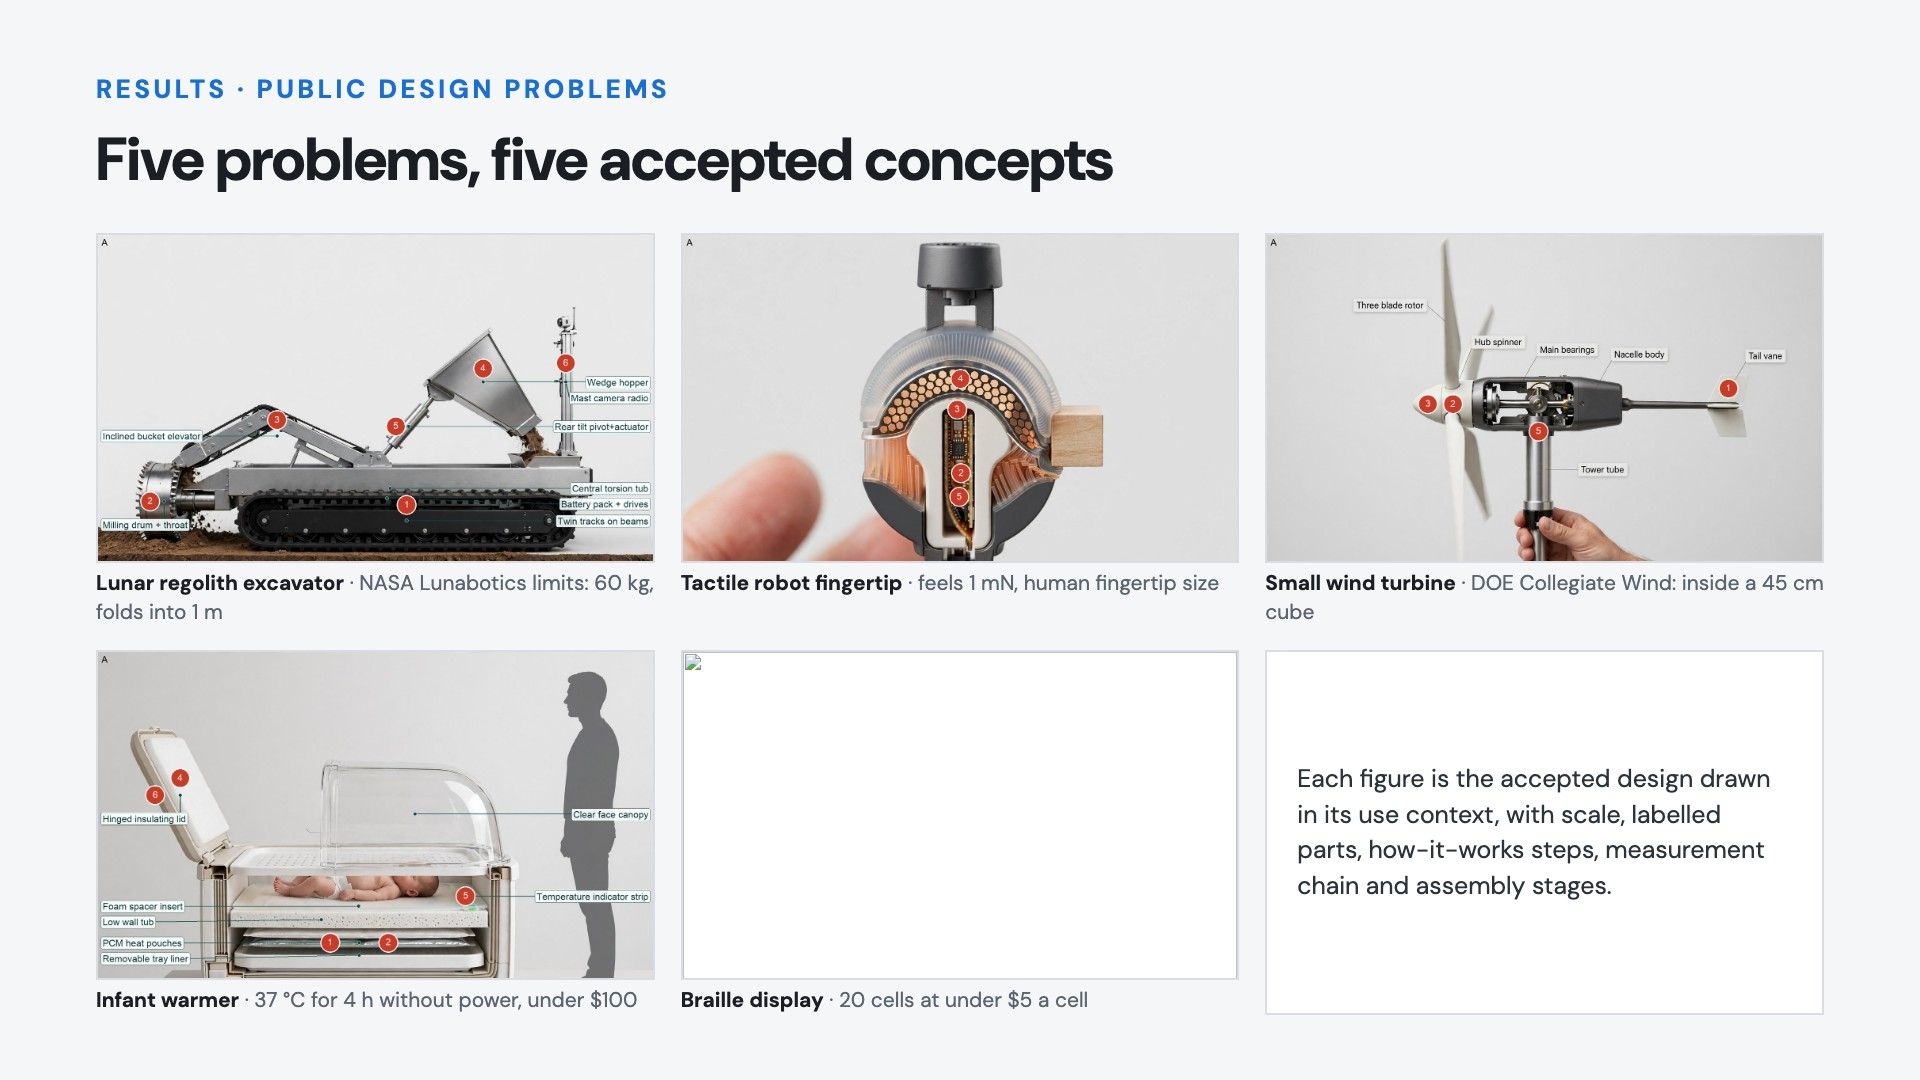
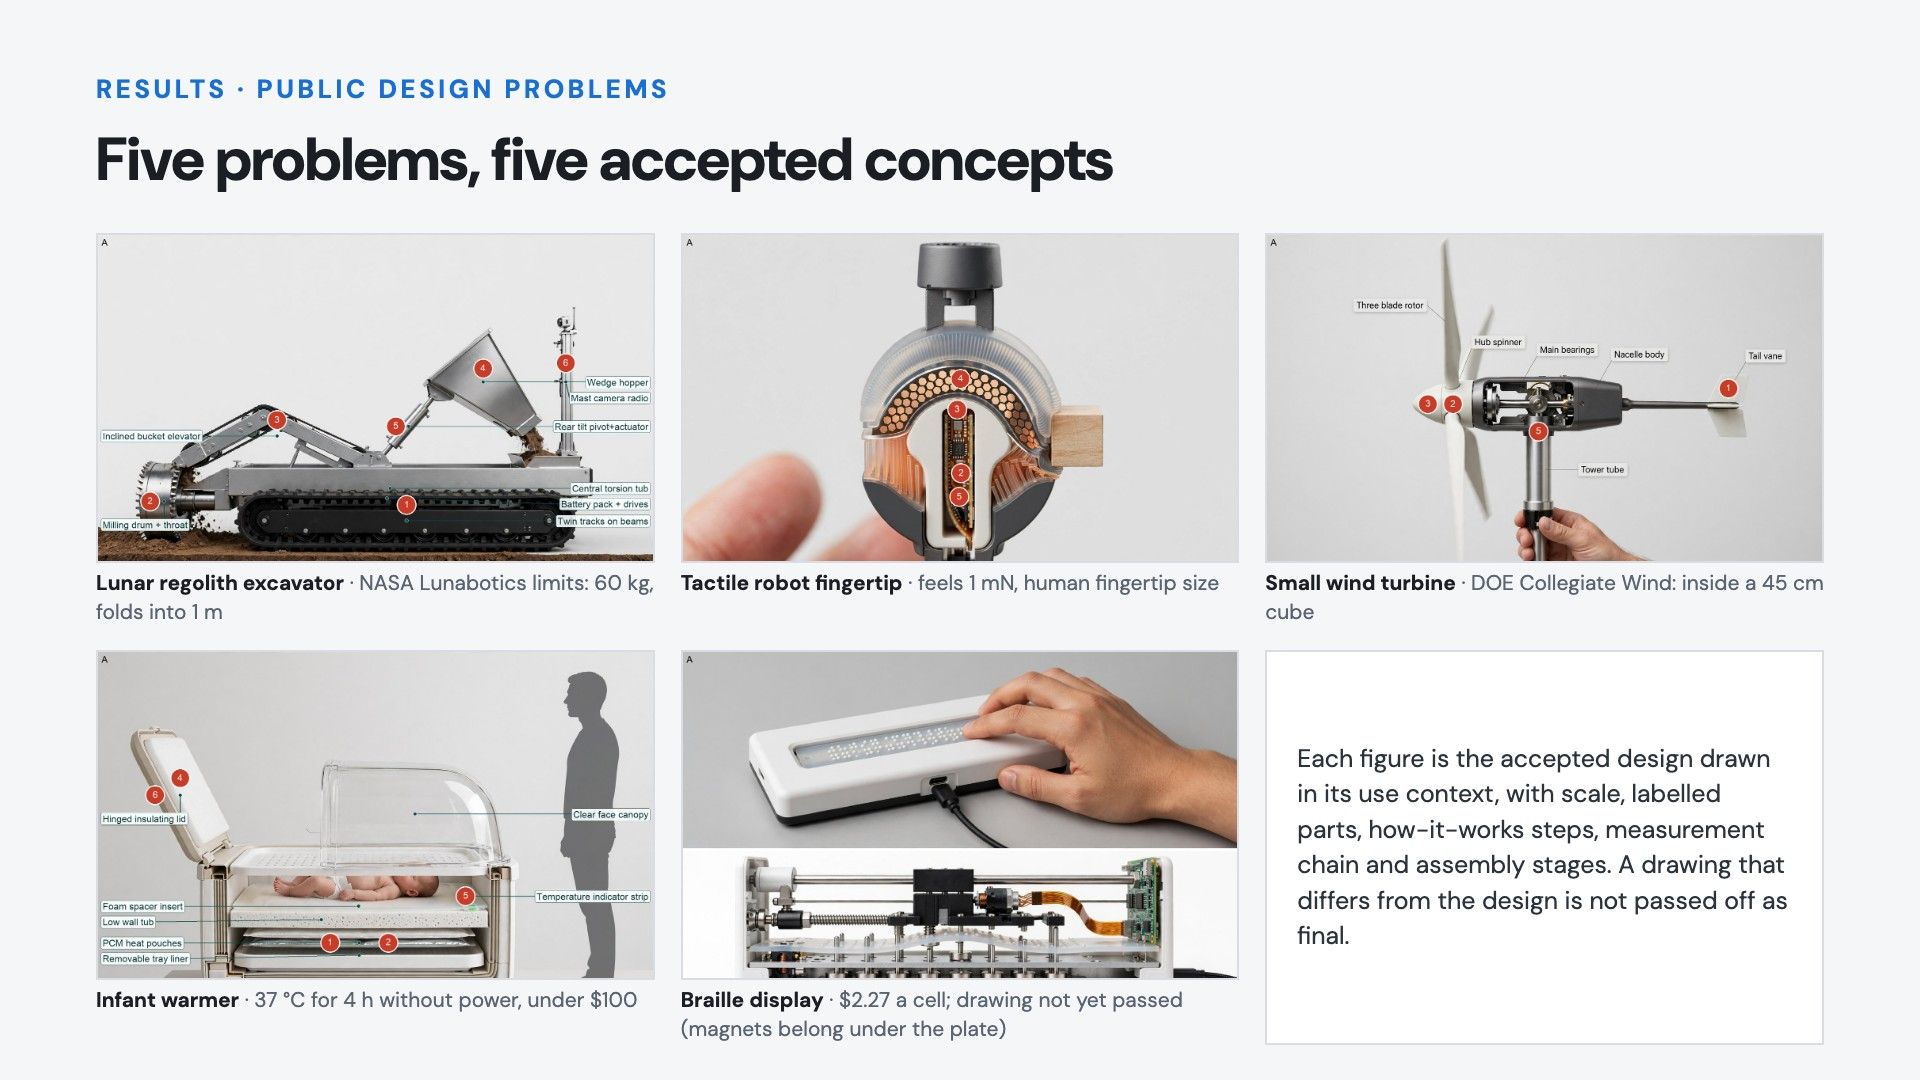
Picture loop: the local-edit check judges only the edited part (it failed every one-part edit for the other parts' faults); braille figure and caption on the deck

Changed region(s): [[0.3438, 0.5806, 0.9375, 0.9778]]

diff --git a/showcase/deck3min/06_designs.html b/showcase/deck3min/06_designs.html
@@ -17,10 +17,11 @@
       inside a 45 cm cube</div></div>
     <div><img class="shot" src="assets/g_warmer.jpg"><div class="cap"><b>Infant warmer</b> · 37 °C for 4 h without
       power, under $100</div></div>
-    <div><img class="shot" src="assets/g_braille.jpg"><div class="cap"><b>Braille display</b> · 20 cells at under $5 a
-      cell</div></div>
+    <div><img class="shot" src="assets/g_braille.jpg"><div class="cap"><b>Braille display</b> · $2.27 a cell; drawing not yet passed
+      (magnets belong under the plate)</div></div>
     <div class="card" style="display:flex;flex-direction:column;justify-content:center;">
       <p style="font-size:25px">Each figure is the accepted design drawn in its use context, with scale, labelled parts,
-        how-it-works steps, measurement chain and assembly stages.</p></div>
+        how-it-works steps, measurement chain and assembly stages. A drawing that differs from the design is not
+        passed off as final.</p></div>
   </div>
 </div></body></html>

diff --git a/src/hs/stage_b/prompt_gradient.py b/src/hs/stage_b/prompt_gradient.py
@@ -34,20 +34,27 @@ class VLMPromptGradientRunner:
                                       "You diagnose which VLM-prompt sentence caused each depiction fault.",
                                       prompt, image_paths=[render_png, labeled_png])
 
-    def progress_check(self, annotated_png: Path, ev_before: DesignerEval, fix_notes: str) -> ProgressCheck:
-        regions = "\n".join(
-            f"- part={r.part_id} box={r.box}: observed={r.observed} | expected={r.expected}"
-            for r in ev_before.regions)
+    def progress_check(self, annotated_png: Path, ev_before: DesignerEval, fix_notes: str,
+                       part_id: str = "", before_png: Path | None = None) -> ProgressCheck:
+        # one local edit changes one region; the other listed faults are still there and are not this edit's test
+        fixed = [r for r in ev_before.regions if r.part_id == part_id] or ev_before.regions
+        others = [r for r in ev_before.regions if r not in fixed]
+        line = "- part={0.part_id} box={0.box}: observed={0.observed} | expected={0.expected}".format
         prompt = (
-            "Progress check on the edited render. For the regions below: does the fixed region now "
-            "pass (fixed_region_pass)? Do previously passing areas still pass (previous_pass)? Is any "
-            "paste seam visible (seam_visible)? Judge from the pixels only, and note that a label "
-            "alone never proves a connection.\n\n"
-            f"REGIONS BEFORE THE FIX:\n{regions}\n\nFIX APPLIED:\n{fix_notes}\n"
+            "Progress check on a render where ONE region was edited and pasted back. fixed_region_pass: does the "
+            "edited region now show what was expected for it? previous_pass: is everything outside it as good as "
+            "before (no part lost, moved or broken)? seam_visible: is a paste seam visible? Judge from the pixels "
+            "only; a label alone never proves a connection."
+            + (" The first image is the render before the edit, the second after it." if before_png else "")
+            + "\n\nTHE EDITED REGION:\n" + "\n".join(line(r) for r in fixed)
+            + (("\n\nOTHER FAULTS FROM THE SAME CRITIQUE (not touched by this edit; they are fixed separately and do "
+                "not decide fixed_region_pass):\n" + "\n".join(line(r) for r in others)) if others else "")
+            + f"\n\nFIX APPLIED:\n{fix_notes}\n"
         )
+        images = [before_png, annotated_png] if before_png else [annotated_png]
         return self.client.structured("progress_check", ProgressCheck,
                                       "You are the progress-check judge for a locally edited render.",
-                                      prompt, image_paths=[annotated_png])
+                                      prompt, image_paths=images)
 
 
 def composite_region(previous_png: Path, edited_png: Path, box_1000: list[float],

diff --git a/scripts/replay_progress.py b/scripts/replay_progress.py
@@ -1,0 +1,38 @@
+"""Re-judge a round's saved local edits with the current progress check (one model call per edit).
+
+Usage: .venv/bin/python scripts/replay_progress.py <round_dir> <out_dir>
+Writes <out_dir>/progress_<part>.json beside the original verdict, for comparison.
+"""
+from __future__ import annotations
+
+import json
+import sys
+from pathlib import Path
+
+ROOT = Path(__file__).resolve().parents[1]
+sys.path.insert(0, str(ROOT / "src"))
+
+from hs.open_client import OpenClient
+from hs.schemas import DesignerEval, VLMPromptGradient
+from hs.stage_b.prompt_gradient import VLMPromptGradientRunner
+
+
+def main() -> int:
+    rd, out = Path(sys.argv[1]), Path(sys.argv[2])
+    out.mkdir(parents=True, exist_ok=True)
+    ev = DesignerEval.model_validate_json((rd / "eval.json").read_text(encoding="utf-8"))
+    grad = VLMPromptGradient.model_validate_json((rd / "vlm_gradient.json").read_text(encoding="utf-8"))
+    runner = VLMPromptGradientRunner(OpenClient(run_dir=out, max_cost=0.5))
+    for local in sorted(rd.glob("local_*.png")):
+        part = local.stem[len("local_"):]
+        fix = next((g.prompt_fix for g in grad.per_region if g.part_id == part), "")
+        check = runner.progress_check(local, ev, fix, part_id=part, before_png=rd / "render.png")
+        (out / f"progress_{part}.json").write_text(check.model_dump_json(indent=2), encoding="utf-8")
+        old = json.loads((rd / f"progress_{part}.json").read_text(encoding="utf-8"))
+        print(f"{part}: before fixed={old['fixed_region_pass']} -> now fixed={check.fixed_region_pass} "
+              f"previous={check.previous_pass} seam={check.seam_visible} | {check.notes[:240]}")
+    return 0
+
+
+if __name__ == "__main__":
+    sys.exit(main())

diff --git a/src/hs/stage_b/loop.py b/src/hs/stage_b/loop.py
@@ -250,7 +250,7 @@ def run_stage_b(client: Any, solution: SolutionPrompt, spec: SchematicSpec, atte
             if not info["outside_unchanged"]:
                 log(f"attempt {attempt} round {r}: local edit {region.part_id} reverted (outside-box pixels changed)")
                 continue
-            check = grad_runner.progress_check(comp_path, ev, fix)
+            check = grad_runner.progress_check(comp_path, ev, fix, part_id=region.part_id, before_png=current)
             (round_dir / f"progress_{region.part_id}.json").write_text(check.model_dump_json(indent=2),
                                                                        encoding="utf-8")
             if check.fixed_region_pass and check.previous_pass and not check.seam_visible:

diff --git a/JOURNAL.md b/JOURNAL.md
@@ -164,3 +164,5 @@ PAUSED (owner leaving). Nothing running. RESUME: 1) fix the chief's tool interfa
 [2026-11-04 05:45] Loops carry context (owner: the board must not reset; self-feedback, evolution and TextGrad keep developing; members model simply but stay at concept level) · Found: the API session's committed fixes (Evaluator re-checks its previous requests first and accepts when met, sees each calc expression; named terms in part sums) were not in this copy, and its uncommitted work makes the next meeting continue on the previous board (Meeting.carry_from: functions, concepts, selections, proposal, objections and evidence with files carry over; opinions and closure cleared; continued-meeting opening assigns every open Evaluator request to a named member with calc or simulate), adds the Secretary's constraint_table (each given constraint against the design's computed value or 'not computed'), and asks members to bring the best existing solutions first. Changed: merged origin/main into open-weights (knowledge files and journal kept from both stacks by union) and applied the API session's uncommitted src/tests diff (main working tree, 2026-11-04 05:30) — the only conflict, fabrication-step wording, keeps both (at most one size per stage + making method). Tests 108 passed, ruff clean. Glass bead: picture stage rerun with the workpiece rule → runs/20261103-222117_tactile-fingertip-sensor-for-robot-hands (s1_pass, $0.40): the fingertip now presses a small wooden cube. · ledger $15.9294
 
 [2026-11-04 06:20] Two new public problems, loop checks, 3-minute deck · Problems: examples/bench/b6_infant_warmer.json (Embrace: ~37 °C for 4 h without power, ≤ $100) and b7_braille_display.json (20 cells, ≤ $5 per cell); sources in examples/bench/SOURCES.md. Runs: b6 runs/20261103-223203_infant-warmer-for-clinics-without-reliab accepted at meeting 1 (constraint table: 6.0 h at 36.8 °C simulated, $50, surface < 40 °C); picture round 0 sent back by the critic (2.7× size, heating mat hidden), round 1 faithful, SAM 3 found 8 of 8 parts; 2 new skills. b7 runs/20261103-223206_affordable-refreshable-braille-display: meeting 1 rejected with 4 requests, Manager edited Roles/Tools/Protocol, meetings 2 and 3 'continue on the board' (carry-over works live), meeting 3 accepted — the requested latch calculation showed the ferrite sheet holds 0.034 N against 0.15–0.30 N finger load, magnets 1.6 N, $2.27 per cell. Loop check on run 201819: knowledge_in 28 lessons + 25 skills, 3 new skills and a tool written out, master prompt rev 0→2 with Manager edits tied to the rejection. Found: Muse Spark Open wrote meeting 2's whole verdict into constraint_review (feedback and evidence_requests empty, so the next meeting got no requests) → the Evaluator is re-asked once, with its previous reply, when feedback is empty or a rejection lists no requests. scripts/depth_table.py → runs/depth_table.json (sources, calculations, concepts, stages per design; one prompt: 3–11 searches, 0 calculations, 1 concept). Deck: showcase/deck3min (9 slides as .html, rendered .jpg by scripts/render_slides.py <dir>, index.html arrow-key viewer, SCRIPT.md ~430 spoken words); every number checked against the run files; looked at every slide. Spend so far: Baseten about $23, Modal about $2, Meta API pictures about $1. · ledger $23.6132
+
+[2026-11-04 07:10] Braille picture loop; local-edit check fixed; deck finished · Found: run runs/20261103-223206_affordable-refreshable-braille-display stopped at its $10 run cap without a passed drawing; every local picture edit in that run (and earlier ones) was reverted because the progress check listed all of the critic's faults without saying which one the edit fixed, so the judge failed each one-part edit for the other parts. Changed: src/hs/stage_b/prompt_gradient.py progress_check takes the edited part and the before image and judges only that region (others listed as not this edit's test); loop.py passes them. Replay (scripts/replay_progress.py → runs/replay_progress_b7): magnet and membrane edits now pass, driver and reset still fail, matching the images. Live: hs stageb rerun runs/20261104-005046_affordable-refreshable-braille-display kept 4 local edits in round 0 (before: 0), but the renders were worse (open frame, long bare pins) and the critic rejected all 3 rounds ($1.13). Deck slide 6 uses the original run's best render (attempt_02 round_00) captioned "drawing not yet passed (magnets belong under the plate)". pytest 108 passed 2 skipped; ruff clean · ledger $28.95

diff --git a/showcase/deck3min/SCRIPT.md b/showcase/deck3min/SCRIPT.md
@@ -26,7 +26,8 @@ later, SAM finds all eight parts where the design puts them. Only then come labe
 
 **6 · Results.**
 Five public problems — NASA Lunabotics, a robot fingertip, the DOE wind competition, an infant warmer, a braille
-display — five accepted concepts, drawn in use with scale, assembly steps and a measurement chain.
+display — five accepted concepts, drawn in use with scale, assembly steps and a measurement chain. Where the
+drawing still differs from the design, as with the braille magnets, the critic says so and it is not called final.
 
 **7 · Against one prompt.**
 Same Meta models, one prompt: 70 seconds, a picture that contradicts its own text, numbers "from a CAD" that does not
